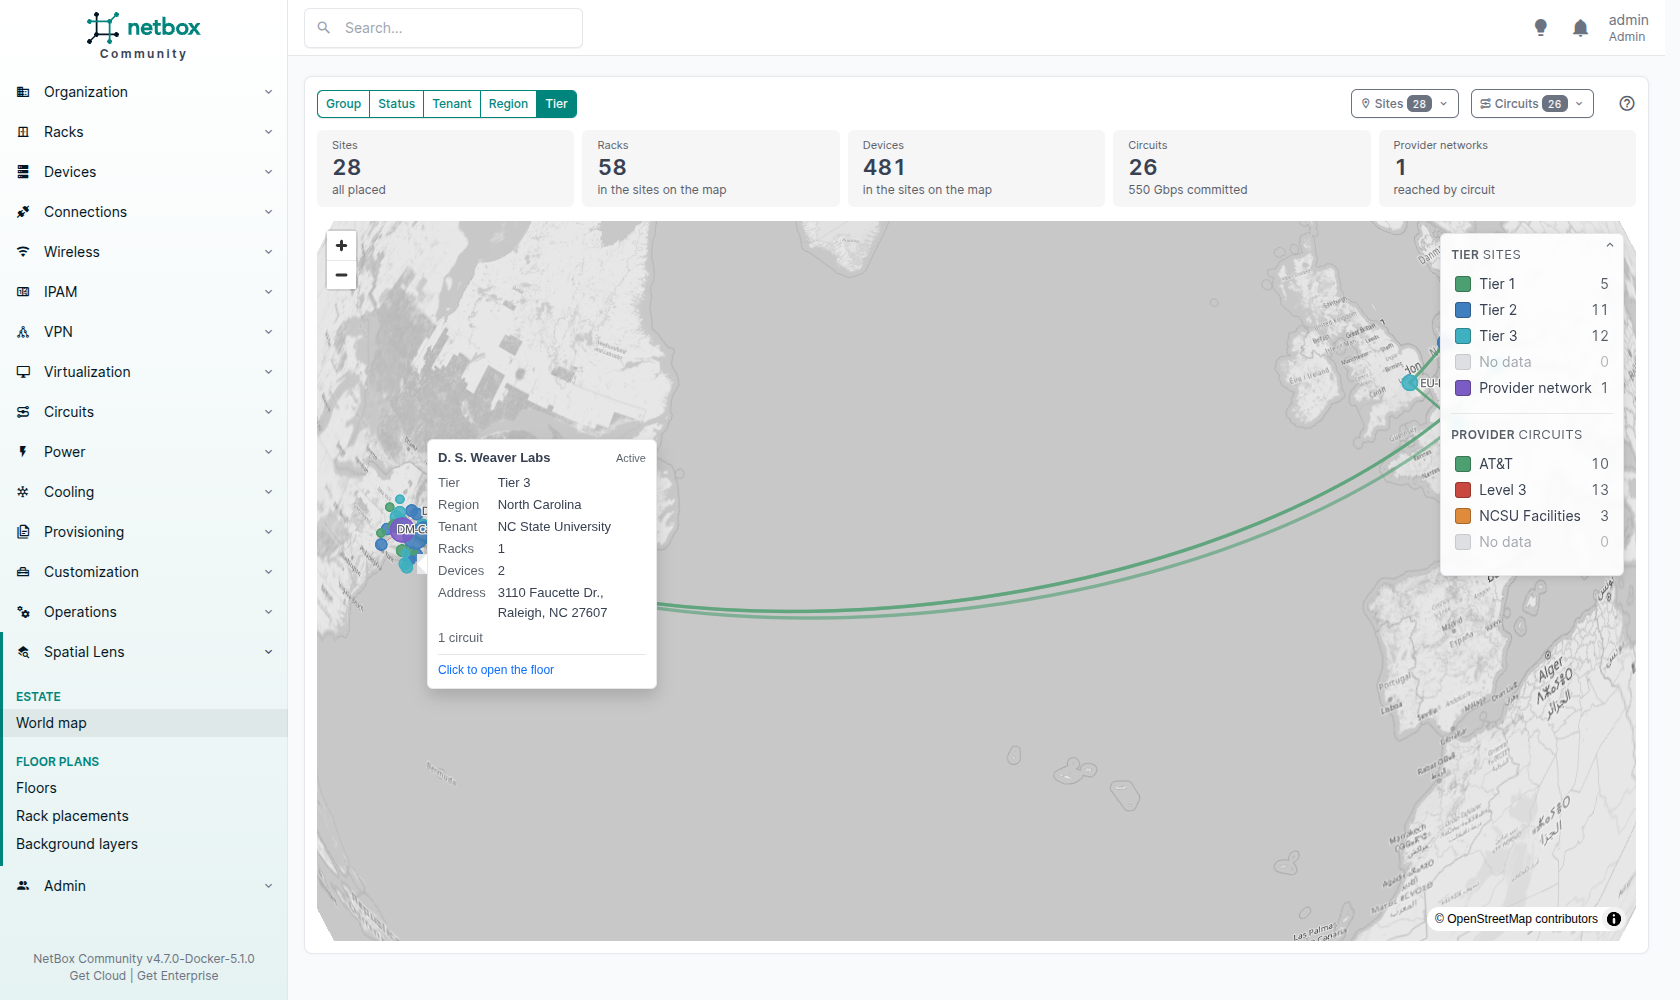
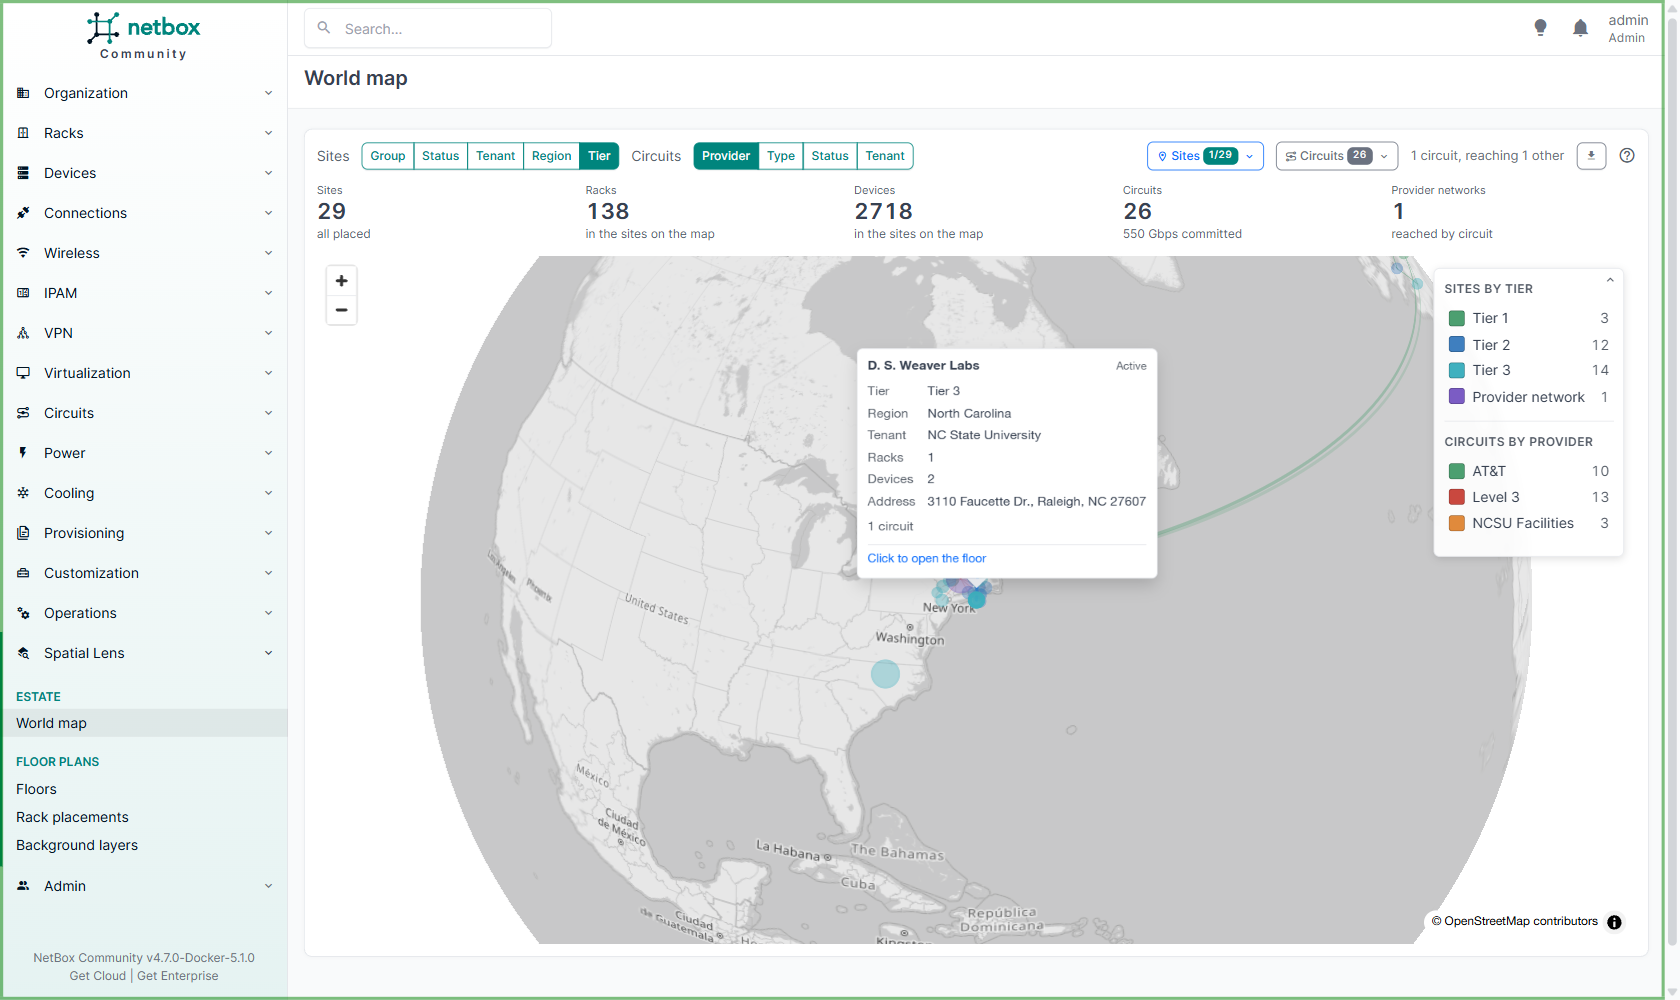
docs: retake the world and extending captures, show the layer calibration

diff --git a/README.md b/README.md
@@ -39,7 +39,7 @@ https://github.com/user-attachments/assets/15360e00-abfa-40f1-a338-959fd32c0023
 
 Sites on a globe, sized by rack count and coloured by **group**, **status**, **tenant** or **region**, with the circuits between them coloured by **provider**, **type**, **status** or **tenant**. The two legends and the **Sites** and **Circuits** finders narrow the map. It needs WebGL and MapLibre, which loads from a CDN by default or from your own copy; tiles are optional.
 
-![A globe with sites in North America and Europe, circuits drawn as great circles across the Atlantic, and two legends naming the site groups and the circuit providers](docs/images/world.png)
+![A globe with sites in North America and Europe, circuits drawn as great circles across the Atlantic, two legends naming the site groups and the circuit providers, and a row of buttons for each: Sites by group, status, tenant or region, and Circuits by provider, type, status or tenant](docs/images/world.png)
 
 ### The site
 
@@ -56,6 +56,8 @@ The room in 3D, every rack a cabinet at its real position, rotation and height, 
 ![The same hall of 80 racks in the Devices view: every cabinet open with its real devices, roofs coloured by rack role, and the hover card of one switch naming its rack, type and unit](docs/images/floor-devices.png)
 
 ![The hall in the Devices view with "c" in the find box: the ten racks of row C stand out with their devices and every other rack fades, and the hover card of one switch in C08](docs/images/floor-devices-find.png)
+
+![The layout editor with the architect plan of the hall being calibrated: a frame with four corner handles round the drawing, two points set on the wall of the loading bay, and the Background layers panel with the opacity, the rotation, Set scale and the distance between the two points, 5.45 metres](docs/images/calibrate.png)
 
 ### The rack
 

diff --git a/docs/extending.md b/docs/extending.md
@@ -188,7 +188,7 @@ def tier(sites, context):
 
 **Support** colours each device by a date custom field, `support_end`, in three declared bands, with the date in its hover card.
 
-![Rack C04 from the front coloured by the Support example: devices in red, orange and green, the legend counting 12 ended, 11 ending within a year and 26 supported, and the hover card of c04-srv09 reading "Support ends 2030-09-24"](images/extending-support.png)
+![Rack C04 from the front coloured by the Support example: devices in red, orange and green, the legend counting 14 ended, 9 ending within a year and 26 supported, and the hover card of c04-srv09 reading "Support ends 2030-09-24"](images/extending-support.png)
 
 **Tier** colours each site by a select custom field, `service_tier`. The values are names, so the legend is built from the data: one entry per tier in use.
 

diff --git a/CHANGELOG.md b/CHANGELOG.md
@@ -16,6 +16,7 @@
 - **Extending:** `Band` and `Scale` declare a legend, and the plugin's own scales `UTILISATION` and `COMPLETION` are public. `Scale.reading(percent, label)` gives the band and the gauge in one call.
 - **Extending:** the function gets a `context` with the reader (`user`), what is drawn (`scope`: the floor or the rack) and `visible(queryset)`, which restricts a queryset to what the reader may view. In the rack view, the function gets `Device` objects, and the port counts and the power are in `context.mounted`.
 - **REST API:** in `floors/<id>/layout/`, each legend entry has its `band` key and its `count`, and each rack has its `band`.
+- **Docs:** the captures of the world map and of the four extending examples are retaken, and the README shows the calibration of a background layer.
 
 ### Added
 
